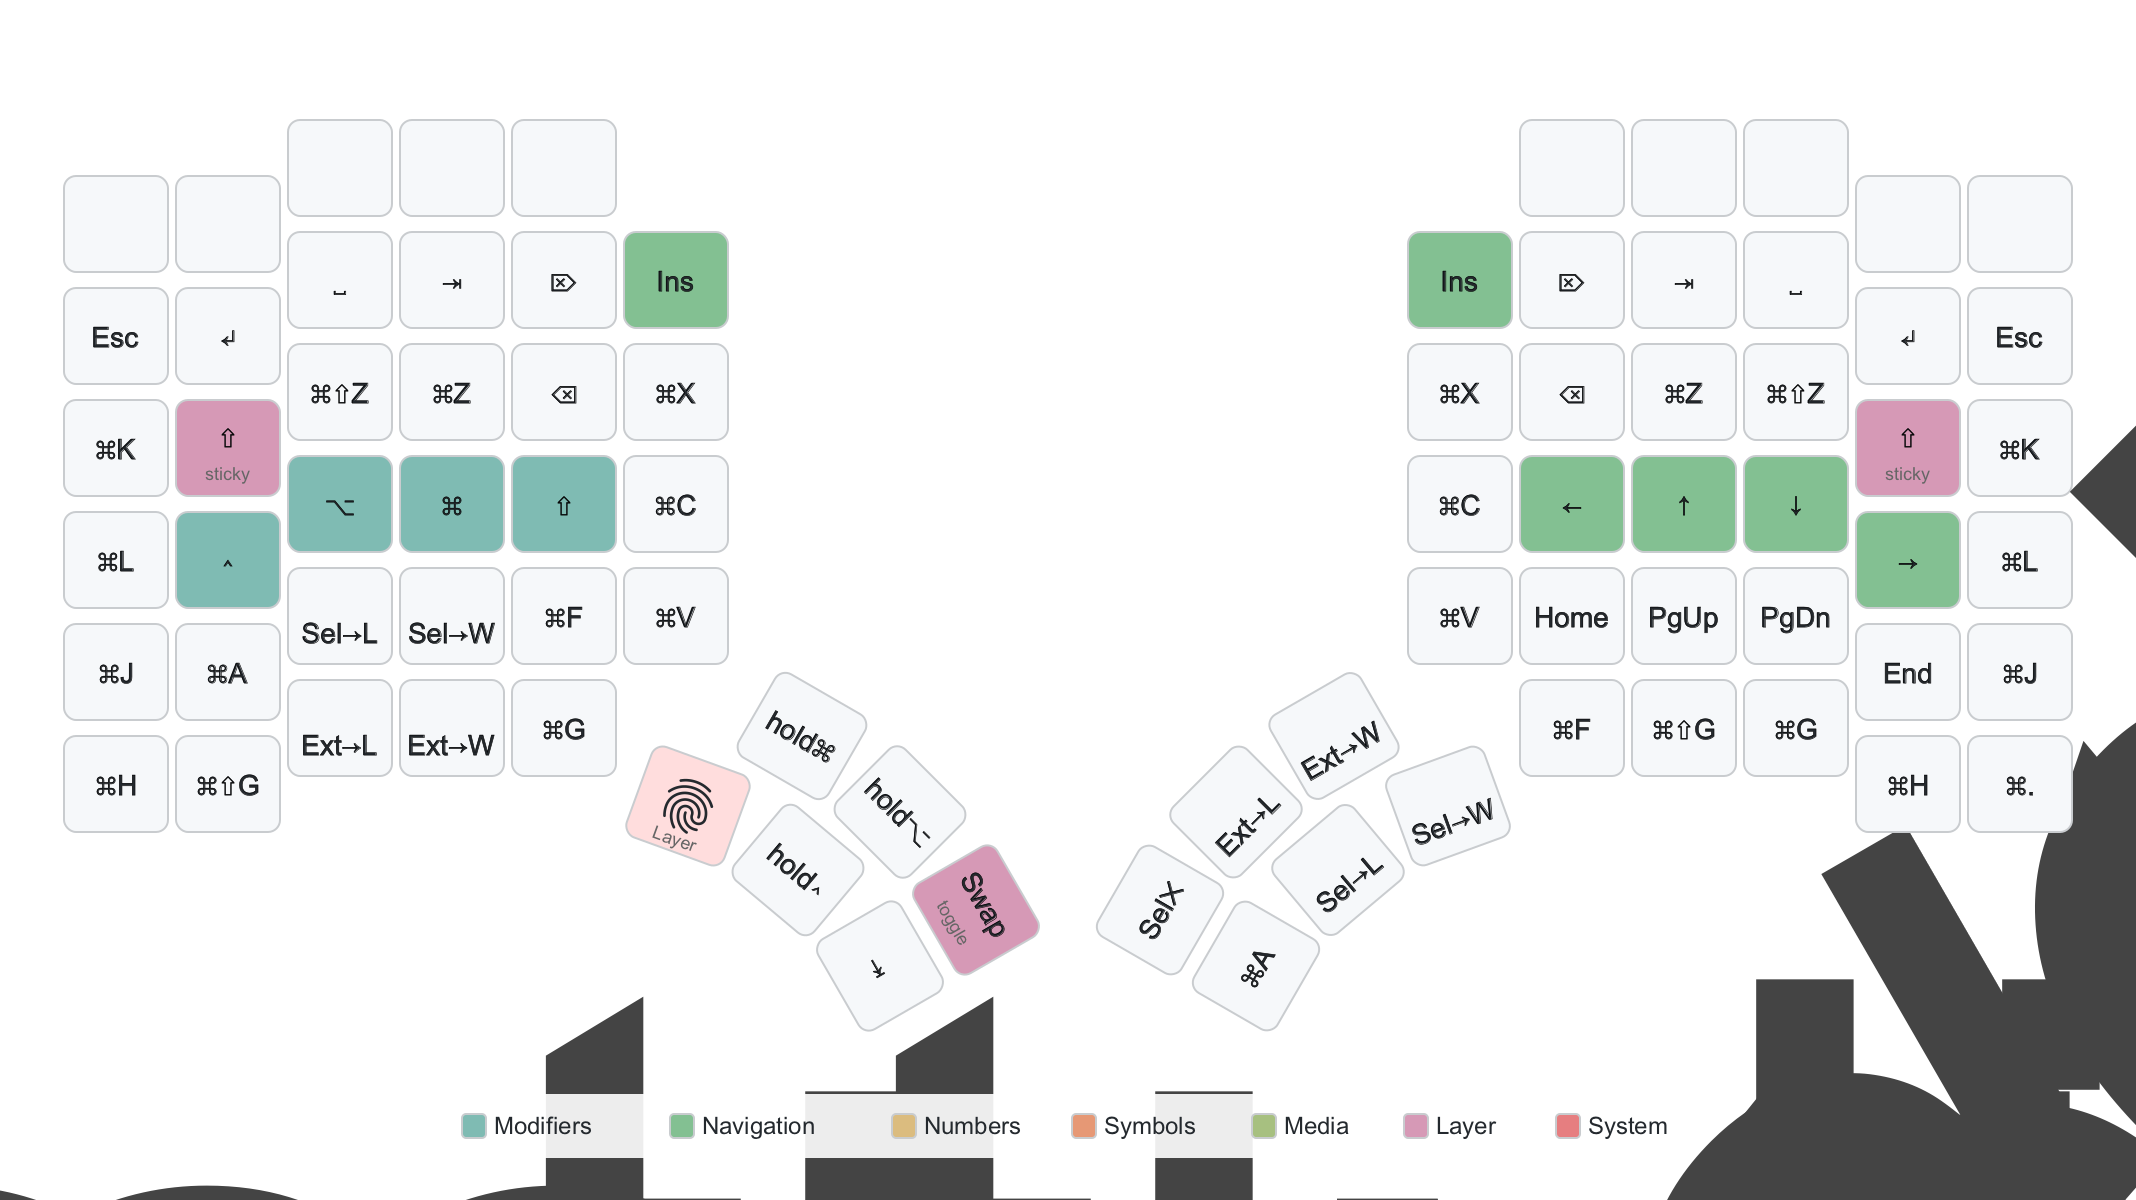
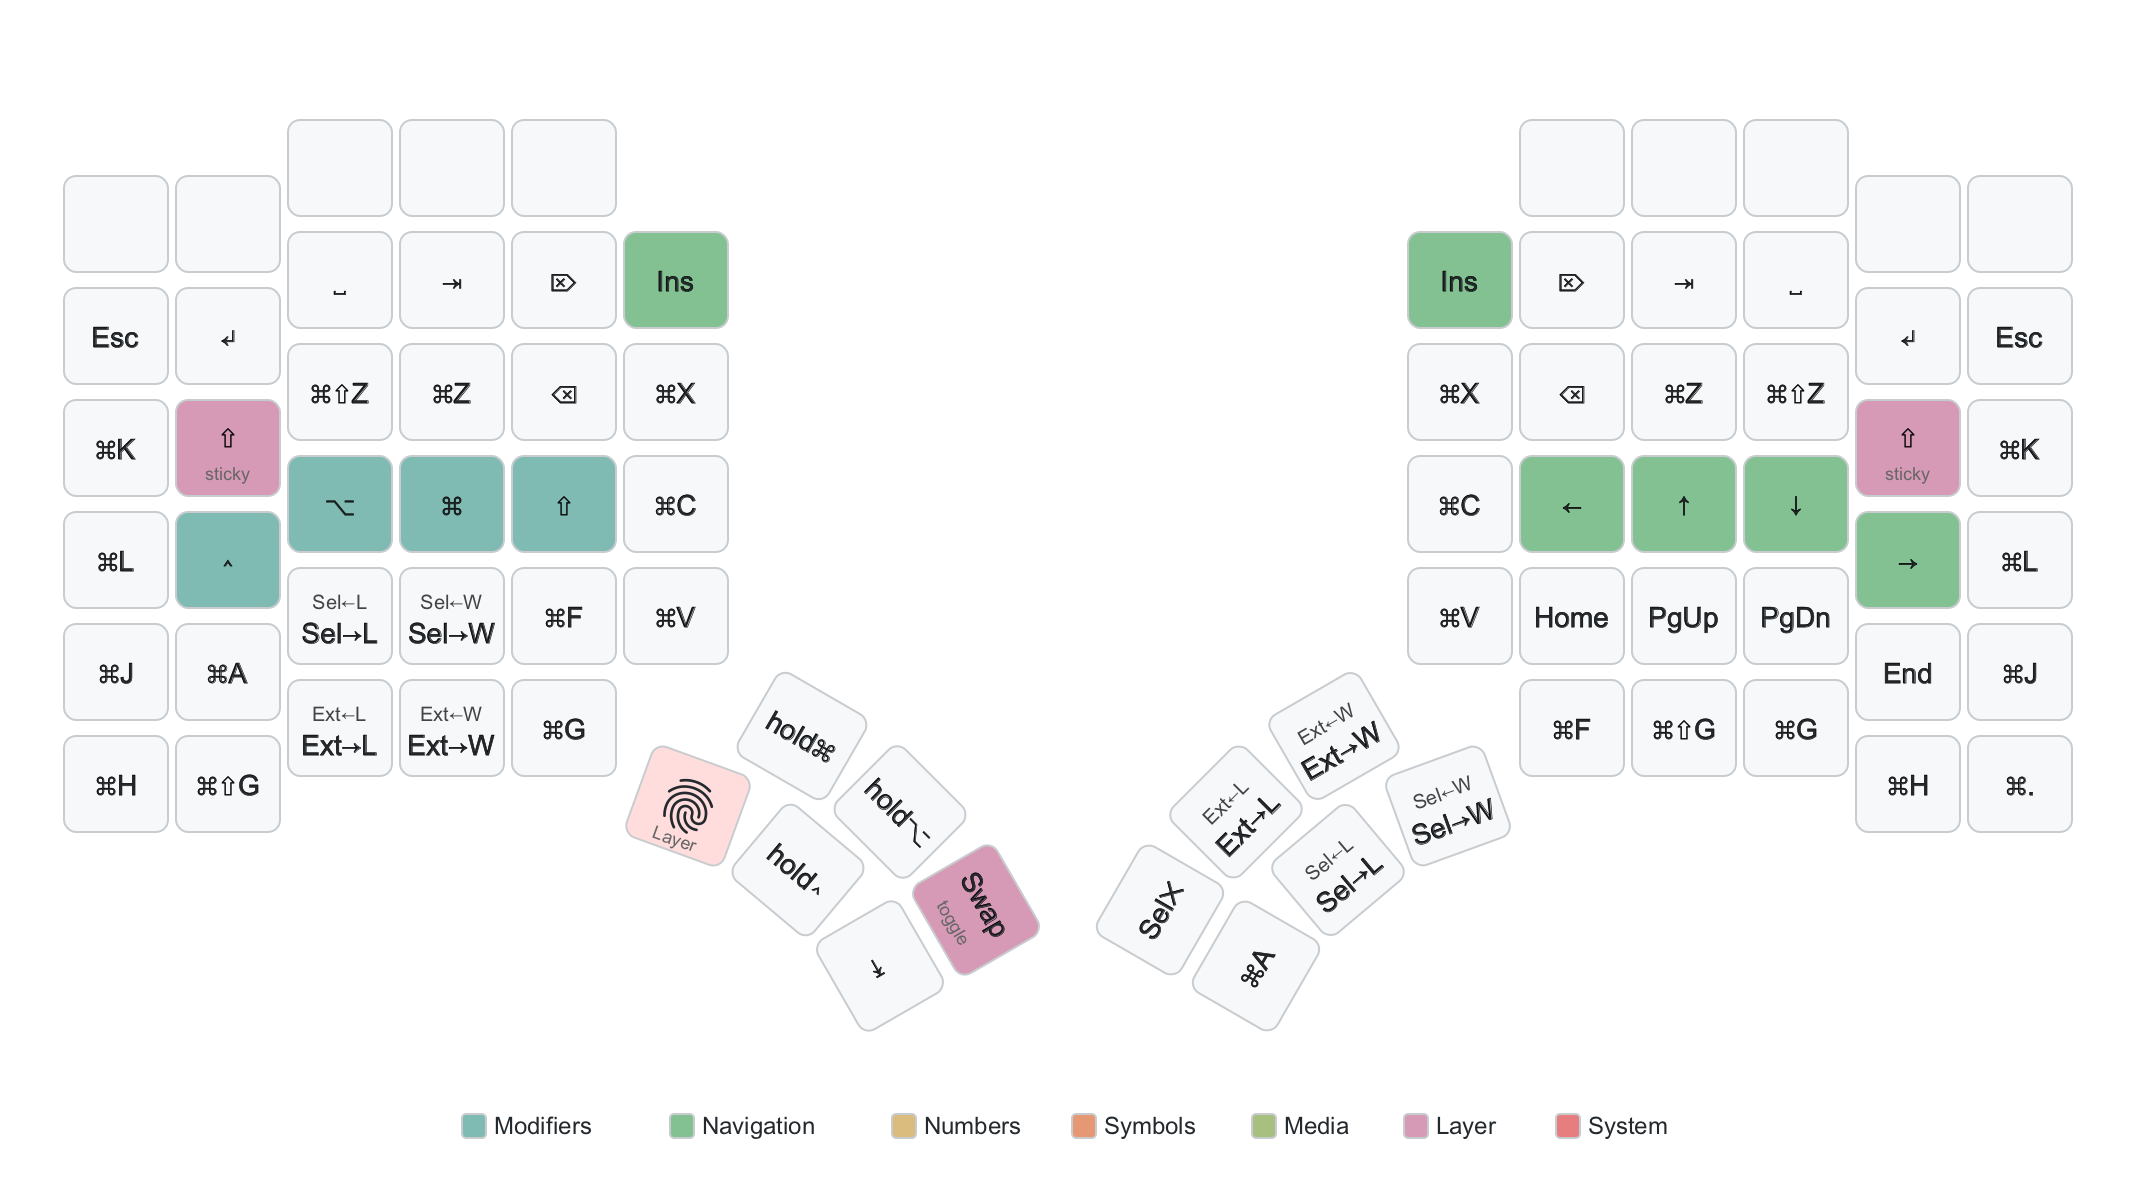
Fix CairoSVG rendering bug with ampersand behaviors (v0.4.1)
Fixed a CairoSVG rendering bug that caused dark artifacts in PNG output
when ZMK behavior references (e.g., &select_line_left) appeared in
shifted key positions. The bug was triggered by raw & characters followed
by text being passed to CairoSVG's text renderer.

Changes:
- Format binding.shifted through format_key_label() to transform raw
  &behaviors into safe display labels
- Add comprehensive CairoSVG compatibility test suite (8 new tests)
- Regenerate example images with clean rendering
- Add CHANGELOG.md for tracking releases

🤖 Generated with [Claude Code](https://claude.com/claude-code)

diff --git a/tests/test_svg_generator.py b/tests/test_svg_generator.py
@@ -2986,3 +2986,305 @@ class TestTypographyCSS:
 
         assert "text.hold" in svg
         assert "font-size: 9px" in svg
+
+
+class TestCairoSvgCompatibility:
+    """
+    Tests to prevent CairoSVG rendering bugs.
+
+    CairoSVG has a bug where text containing '&' followed by characters
+    (like '&left_pinky_hold' or '&lower') renders as giant dark glyphs
+    that obscure the keyboard visualization.
+
+    These tests ensure our SVG output never contains raw '&' prefixed
+    behavior strings that would trigger this bug.
+    """
+
+    def test_svg_text_no_raw_ampersand_behaviors(self):
+        """SPEC-CAIRO-001: SVG text nodes must not contain raw &behavior strings.
+
+        Raw ZMK behavior references like '&left_pinky_hold' or '&mo' in SVG
+        text cause CairoSVG to render giant dark artifacts.
+        """
+        import re
+
+        from glove80_visualizer.config import VisualizerConfig
+        from glove80_visualizer.models import KeyBinding, Layer
+        from glove80_visualizer.svg_generator import generate_layer_svg
+
+        # Create layer with behaviors that have & prefixes
+        bindings = [
+            KeyBinding(position=0, tap="A", hold="&left_pinky_hold LCTL"),
+            KeyBinding(position=1, tap="S", hold="&left_ringy_hold LALT"),
+            KeyBinding(position=2, tap="D", hold="&left_middy_hold LGUI"),
+            KeyBinding(position=3, tap="&sticky_key_oneshot LSFT"),
+            KeyBinding(position=4, tap="&rgb_ug_status_macro"),
+            KeyBinding(position=5, tap="&mo 2"),
+            KeyBinding(position=6, tap="&lt 1 SPACE"),
+            KeyBinding(position=7, tap="&unknown_behavior"),
+        ] + [KeyBinding(position=i, tap="X") for i in range(8, 80)]
+
+        layer = Layer(name="Test", index=0, bindings=bindings)
+        svg = generate_layer_svg(layer, config=VisualizerConfig())
+
+        # Extract all text content from SVG
+        text_contents = re.findall(r"<text[^>]*>([^<]*)</text>", svg)
+
+        # Check that no text contains raw & followed by word characters
+        # (XML entities like &amp; &lt; &gt; are OK)
+        for text in text_contents:
+            # Decode XML entities for checking
+            decoded = text.replace("&amp;", "&").replace("&lt;", "<").replace("&gt;", ">")
+            decoded = decoded.replace("&quot;", '"').replace("&#x27;", "'")
+            # Should not have & followed by letters (raw behavior reference)
+            assert not re.search(
+                r"&[a-z_]", decoded
+            ), f"Found raw &behavior in text: {text!r}"
+
+    def test_format_key_label_strips_ampersand_prefix(self):
+        """SPEC-CAIRO-002: format_key_label must transform &behaviors to safe labels."""
+        from glove80_visualizer.svg_generator import format_key_label
+
+        # All these should NOT start with & in the output
+        test_cases = [
+            ("&left_pinky_hold LCTL", "⌃"),  # Should extract just the modifier
+            ("&left_ringy_hold LALT", "⌥"),
+            ("&left_middy_hold LGUI", "⌘"),
+            ("&sticky_key_oneshot LSFT", "●⇧"),
+            ("&rgb_ug_status_macro", "RGB"),
+            ("&mo 2", "hold2"),  # Layer momentary with layer number
+            ("&unknown_foo_bar", None),  # Should not start with &
+        ]
+
+        for input_val, expected in test_cases:
+            result = format_key_label(input_val, "mac")
+            assert not result.startswith(
+                "&"
+            ), f"format_key_label({input_val!r}) returned {result!r} which starts with &"
+            if expected is not None:
+                assert (
+                    result == expected
+                ), f"format_key_label({input_val!r}) = {result!r}, expected {expected!r}"
+
+    def test_format_key_label_unknown_behavior_truncated(self):
+        """SPEC-CAIRO-003: Unknown &behaviors are truncated without & prefix."""
+        from glove80_visualizer.svg_generator import format_key_label
+
+        # Long unknown behaviors should be truncated
+        result = format_key_label("&very_long_unknown_behavior_name", "mac")
+        assert not result.startswith("&")
+        assert len(result) <= 8  # Should be truncated
+        assert "…" in result or len(result) <= 6  # Either truncated with ellipsis or short
+
+    def test_binding_to_keymap_drawer_no_ampersand_leak(self):
+        """SPEC-CAIRO-004: _binding_to_keymap_drawer must not leak raw & strings."""
+        from glove80_visualizer.config import VisualizerConfig
+        from glove80_visualizer.models import KeyBinding
+        from glove80_visualizer.svg_generator import _binding_to_keymap_drawer
+
+        config = VisualizerConfig()
+        config.show_colors = True
+
+        test_bindings = [
+            KeyBinding(position=0, tap="A", hold="&left_pinky_hold LCTL"),
+            KeyBinding(position=1, tap="&sticky_key_oneshot LSFT"),
+            KeyBinding(position=2, tap="&rgb_ug_status_macro", hold="Magic"),
+            KeyBinding(position=3, tap="&unknown_behavior"),
+        ]
+
+        for binding in test_bindings:
+            result = _binding_to_keymap_drawer(binding, "mac", config)
+
+            # Result can be a string or a dict
+            if isinstance(result, str):
+                assert not result.startswith(
+                    "&"
+                ), f"Tap leaked &: {binding.tap} -> {result}"
+            elif isinstance(result, dict):
+                tap = result.get("t", "")
+                hold = result.get("h", "")
+                assert not str(tap).startswith(
+                    "&"
+                ), f"Tap leaked &: {binding.tap} -> {tap}"
+                assert not str(hold).startswith(
+                    "&"
+                ), f"Hold leaked &: {binding.hold} -> {hold}"
+
+    def test_binding_shifted_behavior_is_formatted(self):
+        """SPEC-CAIRO-005: binding.shifted must be formatted, not used raw.
+
+        When a KeyBinding has a shifted value that's a behavior (like
+        &select_line_left), it must be formatted before being put in the SVG.
+        """
+        from glove80_visualizer.config import VisualizerConfig
+        from glove80_visualizer.models import KeyBinding
+        from glove80_visualizer.svg_generator import _binding_to_keymap_drawer
+
+        config = VisualizerConfig()
+        config.show_colors = True
+
+        # This is a real pattern from mod-morph behaviors
+        binding = KeyBinding(
+            position=0,
+            tap="&select_line_right",
+            shifted="&select_line_left",  # Shift variant
+        )
+
+        result = _binding_to_keymap_drawer(binding, "mac", config)
+
+        # The shifted value should be formatted, not raw
+        assert isinstance(result, dict)
+        shifted = result.get("shifted", "")
+        assert not shifted.startswith("&"), f"Shifted leaked raw &: {shifted!r}"
+        # Should be formatted to something like "Sel←L"
+        assert shifted == "Sel←L", f"Expected 'Sel←L', got {shifted!r}"
+
+    def test_all_binding_fields_formatted_no_raw_ampersand(self):
+        """SPEC-CAIRO-005b: All binding fields (tap, hold, shifted) must be formatted.
+
+        This comprehensive test ensures no raw &behavior strings leak through
+        any field in the keymap-drawer output.
+        """
+        from glove80_visualizer.config import VisualizerConfig
+        from glove80_visualizer.models import KeyBinding
+        from glove80_visualizer.svg_generator import _binding_to_keymap_drawer
+
+        config = VisualizerConfig()
+        config.show_colors = True
+
+        # Test all combinations of & behaviors in different fields
+        test_cases = [
+            # (tap, hold, shifted)
+            ("&left_pinky_hold LCTL", None, None),
+            ("A", "&left_pinky_hold LCTL", None),
+            ("A", None, "&select_line_left"),
+            ("&sticky_key_oneshot LSFT", "&mo 1", "&unknown_behavior"),
+            ("&rgb_ug_status_macro", "&lt 2 SPACE", "&extend_word_left"),
+            ("&select_line_right", "&left_middy_hold LGUI", "&select_line_left"),
+        ]
+
+        for tap, hold, shifted in test_cases:
+            binding = KeyBinding(position=0, tap=tap, hold=hold, shifted=shifted)
+            result = _binding_to_keymap_drawer(binding, "mac", config)
+
+            # Extract all string values from result
+            if isinstance(result, str):
+                values = [("tap", result)]
+            else:
+                values = [
+                    ("tap", result.get("t", "")),
+                    ("hold", result.get("h", "")),
+                    ("shifted", result.get("shifted", "")),
+                ]
+
+            for field_name, value in values:
+                if value:
+                    assert not str(value).startswith("&"), (
+                        f"Field '{field_name}' leaked raw &: "
+                        f"input=({tap!r}, {hold!r}, {shifted!r}) -> {value!r}"
+                    )
+
+    def test_layer_to_keymap_drawer_format_no_raw_ampersand(self):
+        """SPEC-CAIRO-005c: _layer_to_keymap_drawer_format must not leak raw &.
+
+        Test the full layer conversion to ensure no raw & behaviors appear
+        in the output that gets passed to keymap-drawer.
+        """
+        import re
+
+        from glove80_visualizer.config import VisualizerConfig
+        from glove80_visualizer.models import KeyBinding, Layer
+        from glove80_visualizer.svg_generator import _layer_to_keymap_drawer_format
+
+        # Create layer with various & behaviors in all fields
+        bindings = [
+            KeyBinding(position=0, tap="&left_pinky_hold LCTL"),
+            KeyBinding(position=1, tap="A", hold="&left_ringy_hold LALT"),
+            KeyBinding(position=2, tap="B", shifted="&select_line_left"),
+            KeyBinding(
+                position=3,
+                tap="&sticky_key_oneshot LSFT",
+                hold="&mo 2",
+                shifted="&unknown_shifted",
+            ),
+            KeyBinding(position=4, tap="&rgb_ug_status_macro", hold="Magic"),
+            KeyBinding(
+                position=5,
+                tap="&select_line_right",
+                hold="&extend_word_right",
+                shifted="&select_line_left",
+            ),
+        ] + [KeyBinding(position=i, tap="X") for i in range(6, 80)]
+
+        layer = Layer(name="Test", index=0, bindings=bindings)
+        config = VisualizerConfig()
+        config.show_colors = True
+        config.show_shifted = True
+
+        keymap_data = _layer_to_keymap_drawer_format(layer, config, "mac", set(), None)
+
+        # Recursively check all string values in the output
+        def check_value(path: str, value):
+            if isinstance(value, str):
+                # Check for raw & followed by word characters (not XML entities)
+                if re.search(r"&[a-z_]", value):
+                    raise AssertionError(f"Raw & found at {path}: {value!r}")
+            elif isinstance(value, dict):
+                for k, v in value.items():
+                    check_value(f"{path}.{k}", v)
+            elif isinstance(value, list):
+                for i, v in enumerate(value):
+                    check_value(f"{path}[{i}]", v)
+
+        check_value("keymap_data", keymap_data)
+
+    def test_svg_renders_without_cairosvg_artifacts(self):
+        """SPEC-CAIRO-006: Generated SVG renders cleanly with CairoSVG.
+
+        This is an integration test that actually renders the SVG with
+        CairoSVG and checks that no large dark artifacts appear.
+        """
+        import io
+
+        import cairosvg
+        from PIL import Image
+
+        from glove80_visualizer.config import VisualizerConfig
+        from glove80_visualizer.models import KeyBinding, Layer
+        from glove80_visualizer.svg_generator import generate_layer_svg
+
+        # Create layer with various & behaviors that previously caused issues
+        # Including shifted behaviors which were the source of the bug
+        bindings = [
+            KeyBinding(position=0, tap="A", hold="&left_pinky_hold LCTL"),
+            KeyBinding(position=1, tap="S", hold="&left_ringy_hold LALT"),
+            KeyBinding(position=2, tap="D", hold="&left_middy_hold LGUI"),
+            KeyBinding(position=3, tap="&sticky_key_oneshot LSFT"),
+            KeyBinding(position=4, tap="&rgb_ug_status_macro"),
+            # These have shifted behaviors that triggered the bug
+            KeyBinding(position=5, tap="&select_line_right", shifted="&select_line_left"),
+            KeyBinding(position=6, tap="&extend_word_right", shifted="&extend_word_left"),
+        ] + [KeyBinding(position=i, tap="X") for i in range(7, 80)]
+
+        layer = Layer(name="Test", index=0, bindings=bindings)
+        config = VisualizerConfig()
+        config.show_colors = True
+        svg = generate_layer_svg(layer, config=config)
+
+        # Render with CairoSVG
+        png_data = cairosvg.svg2png(bytestring=svg.encode(), output_width=800)
+        img = Image.open(io.BytesIO(png_data))
+
+        # Check for dark artifact pixels
+        # The bug renders giant dark glyphs - more than 10% dark pixels indicates failure
+        pixels = list(img.getdata())
+        dark_pixels = sum(
+            1
+            for p in pixels
+            if p[0] < 50 and p[1] < 50 and p[2] < 50 and (len(p) < 4 or p[3] > 100)
+        )
+        dark_ratio = dark_pixels / len(pixels)
+
+        assert (
+            dark_ratio < 0.1
+        ), f"CairoSVG rendered {dark_ratio:.1%} dark pixels - likely artifact bug"

diff --git a/src/glove80_visualizer/svg_generator.py b/src/glove80_visualizer/svg_generator.py
@@ -1244,7 +1244,9 @@ def _binding_to_keymap_drawer(
     # Use explicit binding.shifted if set, otherwise auto-detect if show_shifted is True
     shifted_char = None
     if binding.shifted:
-        shifted_char = binding.shifted
+        # Format the shifted value - it may be a behavior like &select_line_left
+        # which needs to be transformed to avoid CairoSVG rendering bugs
+        shifted_char = format_key_label(binding.shifted, os_style)
     elif show_shifted and tap_label:
         shifted_char = get_shifted_char(tap_label, mod_morphs=mod_morphs)
 

diff --git a/CHANGELOG.md b/CHANGELOG.md
@@ -1,0 +1,52 @@
+# Changelog
+
+All notable changes to this project will be documented in this file.
+
+The format is based on [Keep a Changelog](https://keepachangelog.com/en/1.1.0/),
+and this project adheres to [Semantic Versioning](https://semver.org/spec/v2.0.0.html).
+
+## [0.4.1] - 2025-12-02
+
+### Fixed
+- Fixed CairoSVG rendering bug causing dark artifacts in PNG output when ZMK behavior references (e.g., `&select_line_left`, `&extend_word_right`) appeared in shifted key positions
+- All binding fields (tap, hold, shifted) are now properly formatted to prevent raw `&behavior` strings from reaching the SVG renderer
+
+### Added
+- Comprehensive test suite for CairoSVG compatibility to prevent regression of the ampersand rendering bug
+- Tests verify that no raw `&` prefixed behaviors leak through any binding field
+
+## [0.4.0] - 2025-12-02
+
+### Added
+- Shifted character display on keys (! above 1, @ above 2, etc.) - enabled by default
+- Custom mod-morph detection from keymap files
+- `--no-shifted` flag to hide shifted characters
+- Refined typography with balanced key label positioning
+- Held key indicators with fingerprint icon showing layer activators
+
+### Changed
+- Improved visual hierarchy for key labels
+- Enhanced modifier symbol rendering
+
+## [0.3.0] - 2025-12-01
+
+### Added
+- Semantic color coding with `--color` flag
+- Color legend (can be hidden with `--no-legend`)
+- OS-specific modifier symbols (`--mac`, `--windows`, `--linux`)
+- Transparent key resolution with `--resolve-trans`
+
+## [0.2.0] - 2025-12-01
+
+### Added
+- PDF generation with table of contents
+- Layer filtering with `--layers` and `--exclude-layers`
+- SVG output format support
+- Configuration file support
+
+## [0.1.0] - 2025-12-01
+
+### Added
+- Initial release
+- ZMK keymap parsing via keymap-drawer
+- Basic PDF visualization of Glove80 layers
